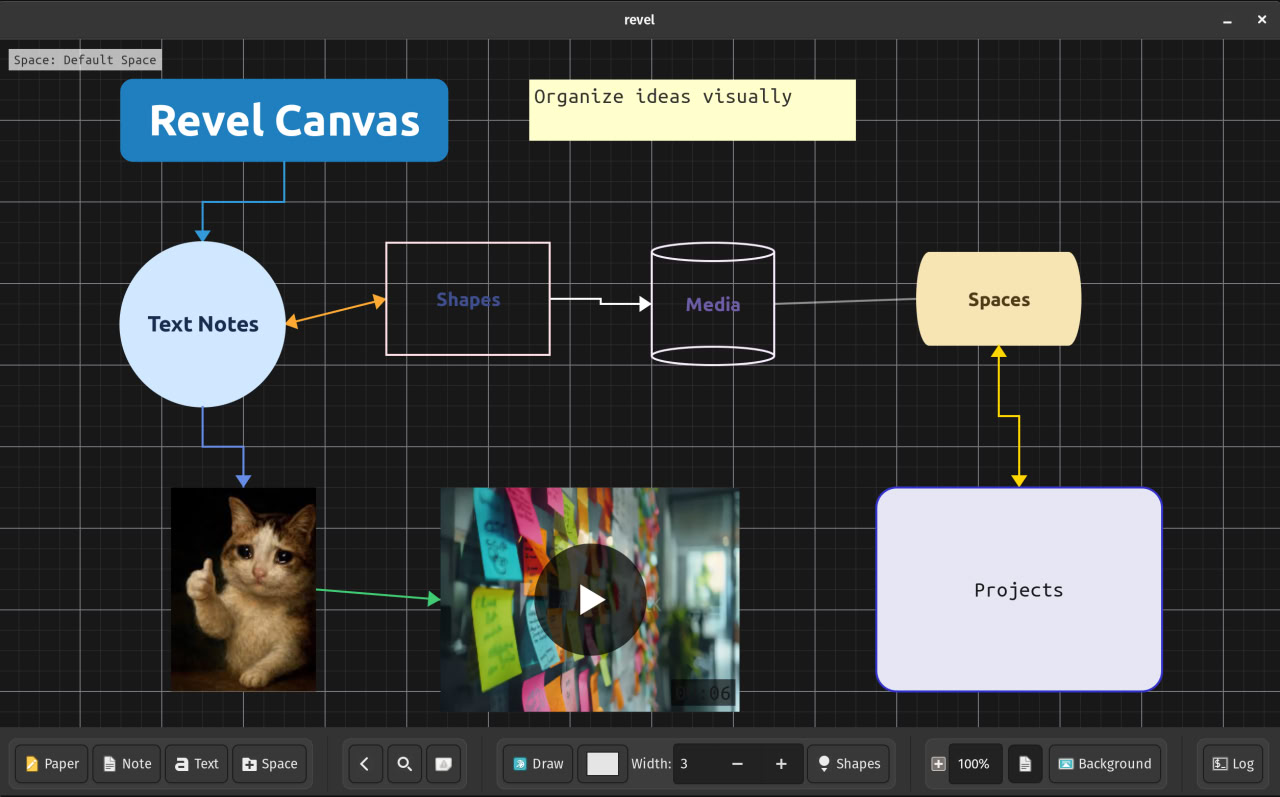
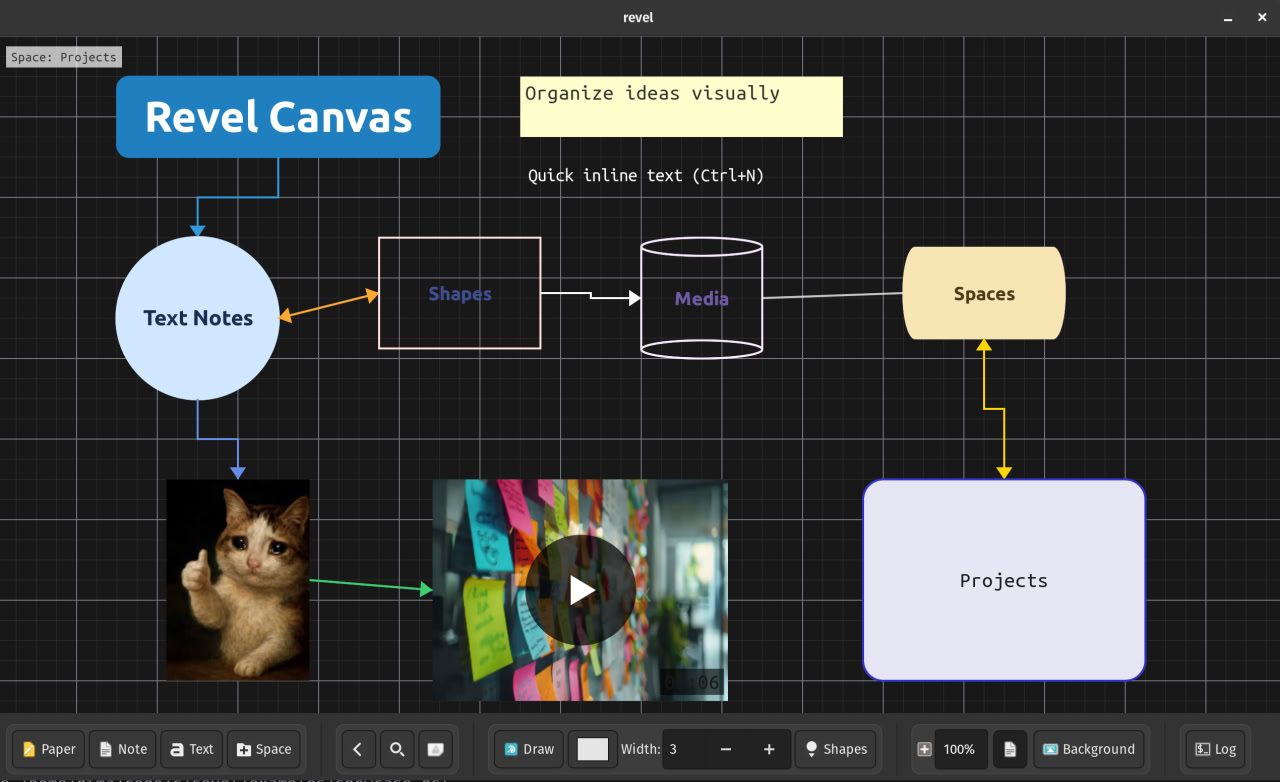
support creating inline_text in dsl

diff --git a/src/dsl_executor.c b/src/dsl_executor.c
@@ -629,6 +629,195 @@ void canvas_execute_script(CanvasData *data, const gchar *script) {
       g_free(clean_text);
       g_free(font_override);
     }
+    else if (g_strcmp0(tokens[0], "text_create") == 0 && token_count >= 5) {
+      // text_create ID "Text" (x,y) (width,height)
+      const gchar *id = tokens[1];
+      const gchar *text_token = tokens[2];
+
+      gchar *clean_text = NULL;
+      if (text_token[0] == '"' && text_token[strlen(text_token)-1] == '"') {
+        gchar *quoted_text = g_strndup(text_token + 1, strlen(text_token) - 2);
+        clean_text = unescape_text(quoted_text);
+        g_free(quoted_text);
+      } else {
+        clean_text = unescape_text(text_token);
+      }
+
+      int x, y, width, height;
+      if (!parse_point(tokens[3], &x, &y) || !parse_point(tokens[4], &width, &height)) {
+        g_print("Failed to parse position/size for text_create\n");
+        g_free(clean_text);
+        for (int j = 0; j < token_count; j++)
+          g_free(tokens[j]);
+        g_free(tokens);
+        continue;
+      }
+
+      double bg_r = 0.0, bg_g = 0.0, bg_b = 0.0, bg_a = 0.0;
+      double text_r = 0.6, text_g = 0.6, text_b = 0.6, text_a = 1.0;
+      const gchar *default_font = "Ubuntu Mono 14";
+      gchar *font_override = NULL;
+
+      gboolean bg_set = FALSE;
+      gboolean text_color_set = FALSE;
+      gboolean font_set = FALSE;
+      gboolean expect_bg = FALSE;
+      gboolean expect_text_color = FALSE;
+      gboolean expect_font = FALSE;
+
+      for (int t = 5; t < token_count; t++) {
+        const gchar *token = tokens[t];
+
+        if (expect_bg) {
+          if (!parse_color_token(token, &bg_r, &bg_g, &bg_b, &bg_a)) {
+            g_print("Failed to parse background color: %s\n", token);
+          } else {
+            bg_set = TRUE;
+          }
+          expect_bg = FALSE;
+          continue;
+        }
+
+        if (expect_text_color) {
+          if (!parse_color_token(token, &text_r, &text_g, &text_b, &text_a)) {
+            g_print("Failed to parse text color: %s\n", token);
+          } else {
+            text_color_set = TRUE;
+          }
+          expect_text_color = FALSE;
+          continue;
+        }
+
+        if (expect_font) {
+          if (!parse_font_value(token, &font_override)) {
+            g_print("Failed to parse font description: %s\n", token);
+          } else {
+            font_set = TRUE;
+          }
+          expect_font = FALSE;
+          continue;
+        }
+
+        if (!bg_set && (g_strcmp0(token, "bg") == 0 || g_strcmp0(token, "background") == 0)) {
+          expect_bg = TRUE;
+          continue;
+        }
+        if (!bg_set && (g_str_has_prefix(token, "bg=") || g_str_has_prefix(token, "background=") ||
+                        g_str_has_prefix(token, "bg:") || g_str_has_prefix(token, "background:"))) {
+          const gchar *value = strchr(token, '=');
+          if (!value) value = strchr(token, ':');
+          if (value && *(value + 1) != '\0') {
+            if (parse_color_token(value + 1, &bg_r, &bg_g, &bg_b, &bg_a)) {
+              bg_set = TRUE;
+              continue;
+            }
+          }
+          g_print("Failed to parse background color: %s\n", token);
+          continue;
+        }
+        if (!bg_set && parse_color_token(token, &bg_r, &bg_g, &bg_b, &bg_a)) {
+          bg_set = TRUE;
+          continue;
+        }
+
+        if (!text_color_set && (g_strcmp0(token, "text_color") == 0 ||
+                                 g_strcmp0(token, "text") == 0 ||
+                                 g_strcmp0(token, "font_color") == 0)) {
+          expect_text_color = TRUE;
+          continue;
+        }
+        if (!text_color_set && (g_str_has_prefix(token, "text_color=") ||
+                                 g_str_has_prefix(token, "text=") ||
+                                 g_str_has_prefix(token, "font_color="))) {
+          const gchar *value = strchr(token, '=');
+          if (value && *(value + 1) != '\0' &&
+              parse_color_token(value + 1, &text_r, &text_g, &text_b, &text_a)) {
+            text_color_set = TRUE;
+            continue;
+          }
+          g_print("Failed to parse text color: %s\n", token);
+          continue;
+        }
+
+        if (!font_set && g_strcmp0(token, "font") == 0) {
+          expect_font = TRUE;
+          continue;
+        }
+        if (!font_set && (g_str_has_prefix(token, "font=") || g_str_has_prefix(token, "font:"))) {
+          const gchar *value = strchr(token, '=');
+          if (!value) value = strchr(token, ':');
+          if (value && *(value + 1) != '\0') {
+            if (parse_font_value(value + 1, &font_override)) {
+              font_set = TRUE;
+              continue;
+            }
+          }
+          g_print("Failed to parse font description: %s\n", token);
+          continue;
+        }
+        if (!font_set && token[0] == '"') {
+          if (parse_font_value(token, &font_override)) {
+            font_set = TRUE;
+            continue;
+          }
+        }
+
+        g_print("Warning: Unrecognized token in text_create: %s\n", token);
+      }
+
+      ElementPosition position = { .x = x, .y = y, .z = data->next_z_index++ };
+      ElementColor bg_color = { .r = bg_r, .g = bg_g, .b = bg_b, .a = bg_a };
+      ElementColor text_color = { .r = text_r, .g = text_g, .b = text_b, .a = text_a };
+      ElementSize size = { .width = width, .height = height };
+      ElementMedia media = { .type = MEDIA_TYPE_NONE, .image_data = NULL, .image_size = 0,
+                             .video_data = NULL, .video_size = 0, .duration = 0 };
+      ElementConnection connection = {
+        .from_element_uuid = NULL,
+        .to_element_uuid = NULL,
+        .from_point = -1,
+        .to_point = -1,
+      };
+      ElementDrawing drawing = {
+        .drawing_points = NULL,
+        .stroke_width = 0,
+      };
+
+      const gchar *font_to_use = font_override ? font_override : default_font;
+      ElementText inline_text = {
+        .text = clean_text,
+        .text_color = text_color,
+        .font_description = g_strdup(font_to_use),
+      };
+      ElementShape shape = {
+        .shape_type = -1,
+        .stroke_width = 0,
+        .filled = FALSE,
+      };
+
+      ElementConfig config = {
+        .type = ELEMENT_INLINE_TEXT,
+        .bg_color = bg_color,
+        .position = position,
+        .size = size,
+        .media = media,
+        .drawing = drawing,
+        .connection = connection,
+        .text = inline_text,
+        .shape = shape,
+      };
+
+      ModelElement *model_element = model_create_element(data->model, config);
+
+      if (model_element) {
+        model_element->visual_element = create_visual_element(model_element, data);
+        g_hash_table_insert(element_map, g_strdup(id), model_element);
+        undo_manager_push_create_action(data->undo_manager, model_element);
+      }
+
+      g_free(inline_text.font_description);
+      g_free(clean_text);
+      g_free(font_override);
+    }
     else if (g_strcmp0(tokens[0], "image_create") == 0 && token_count >= 5) {
       // image_create ID PATH (x,y) (width,height)
       const gchar *id = tokens[1];
